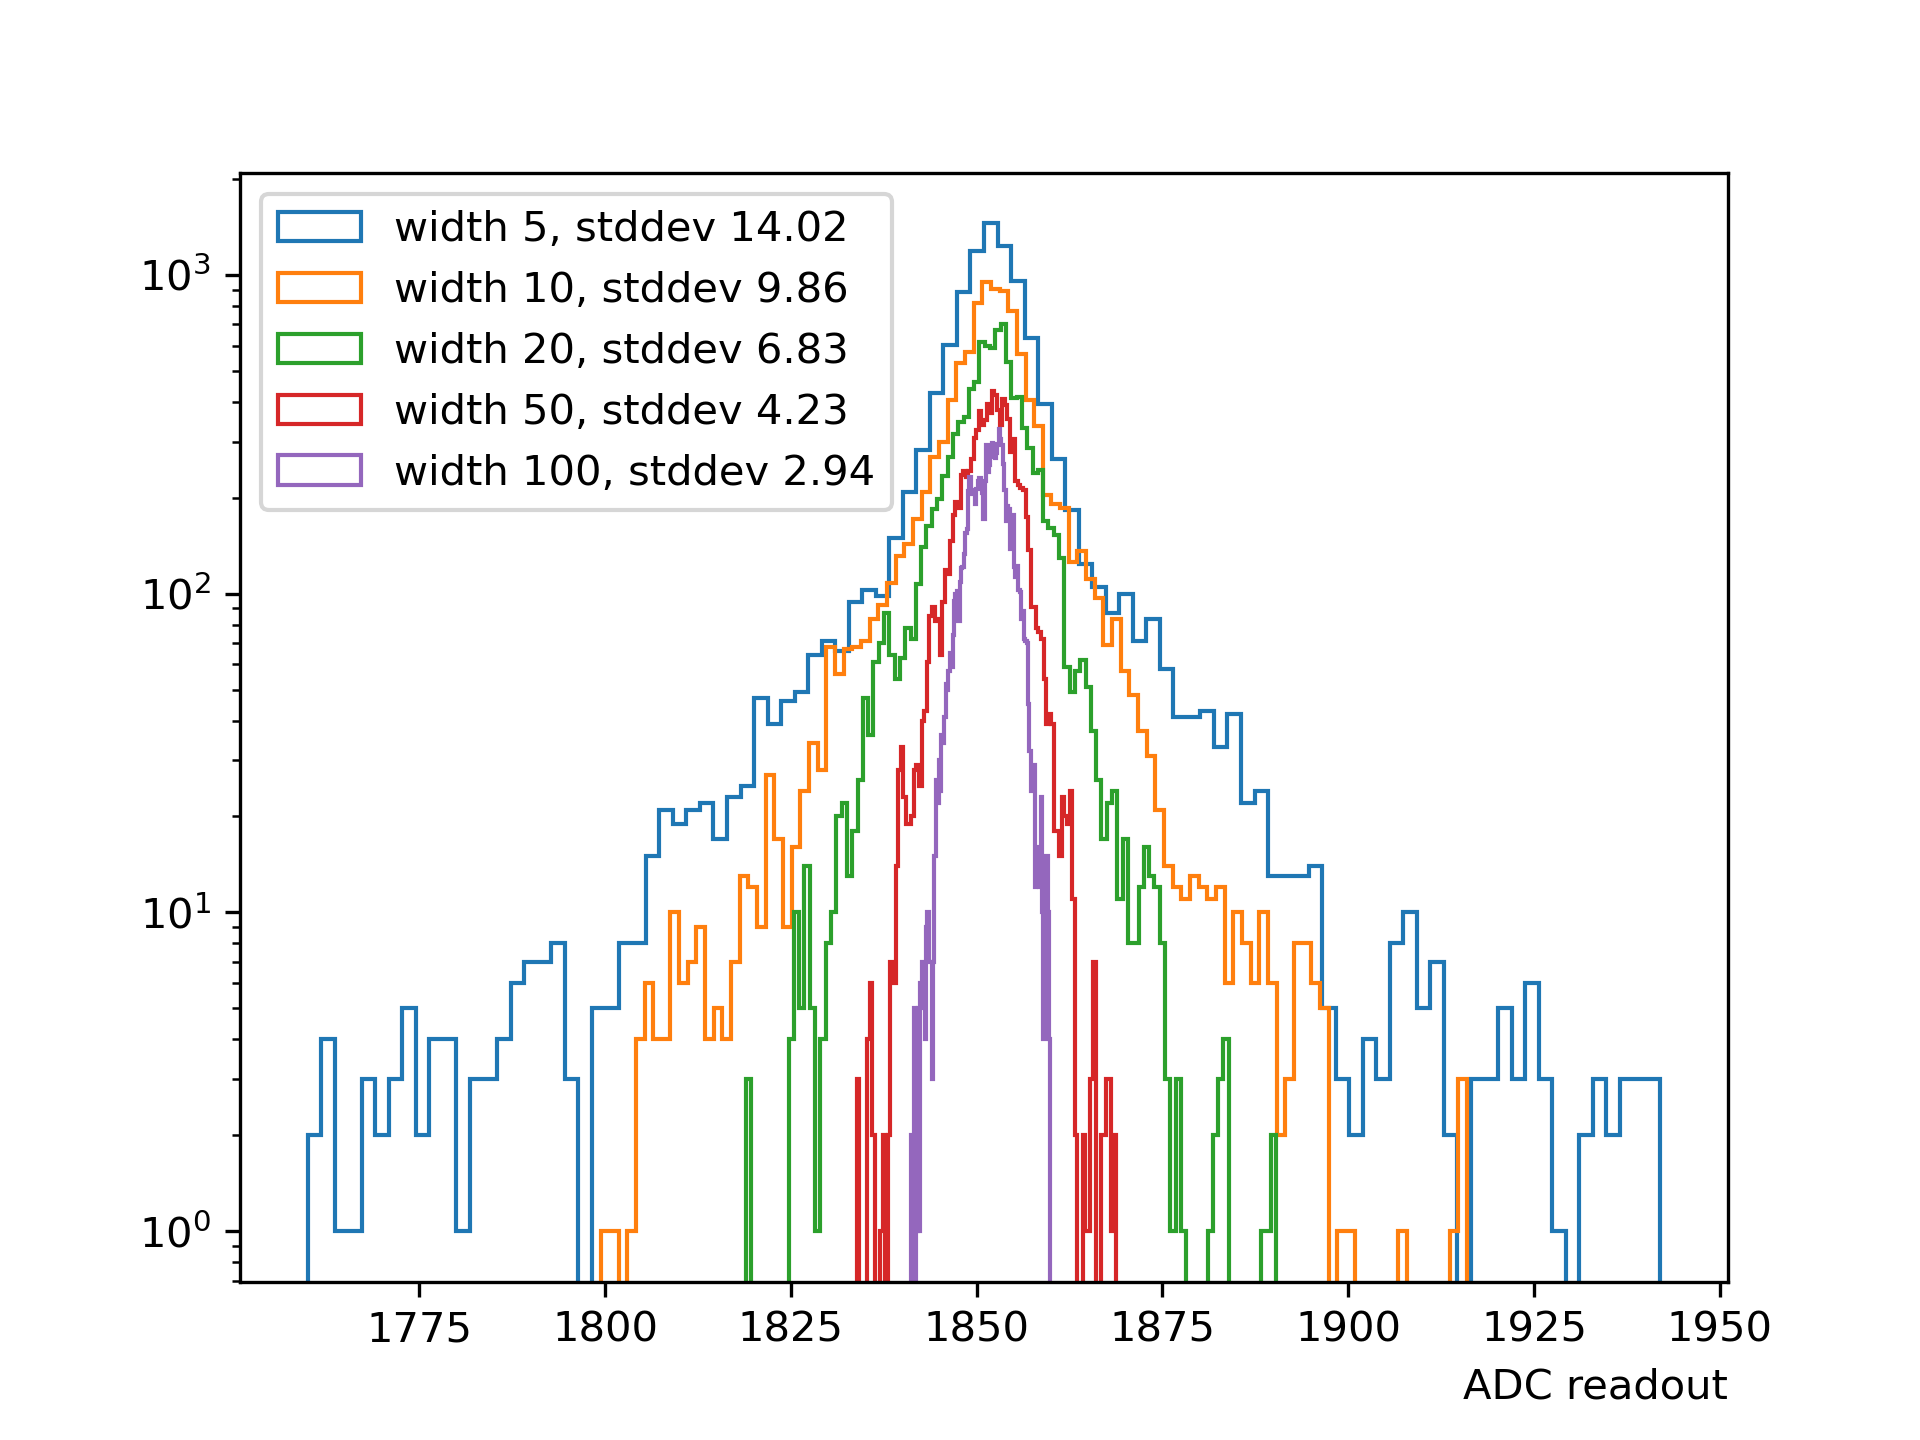
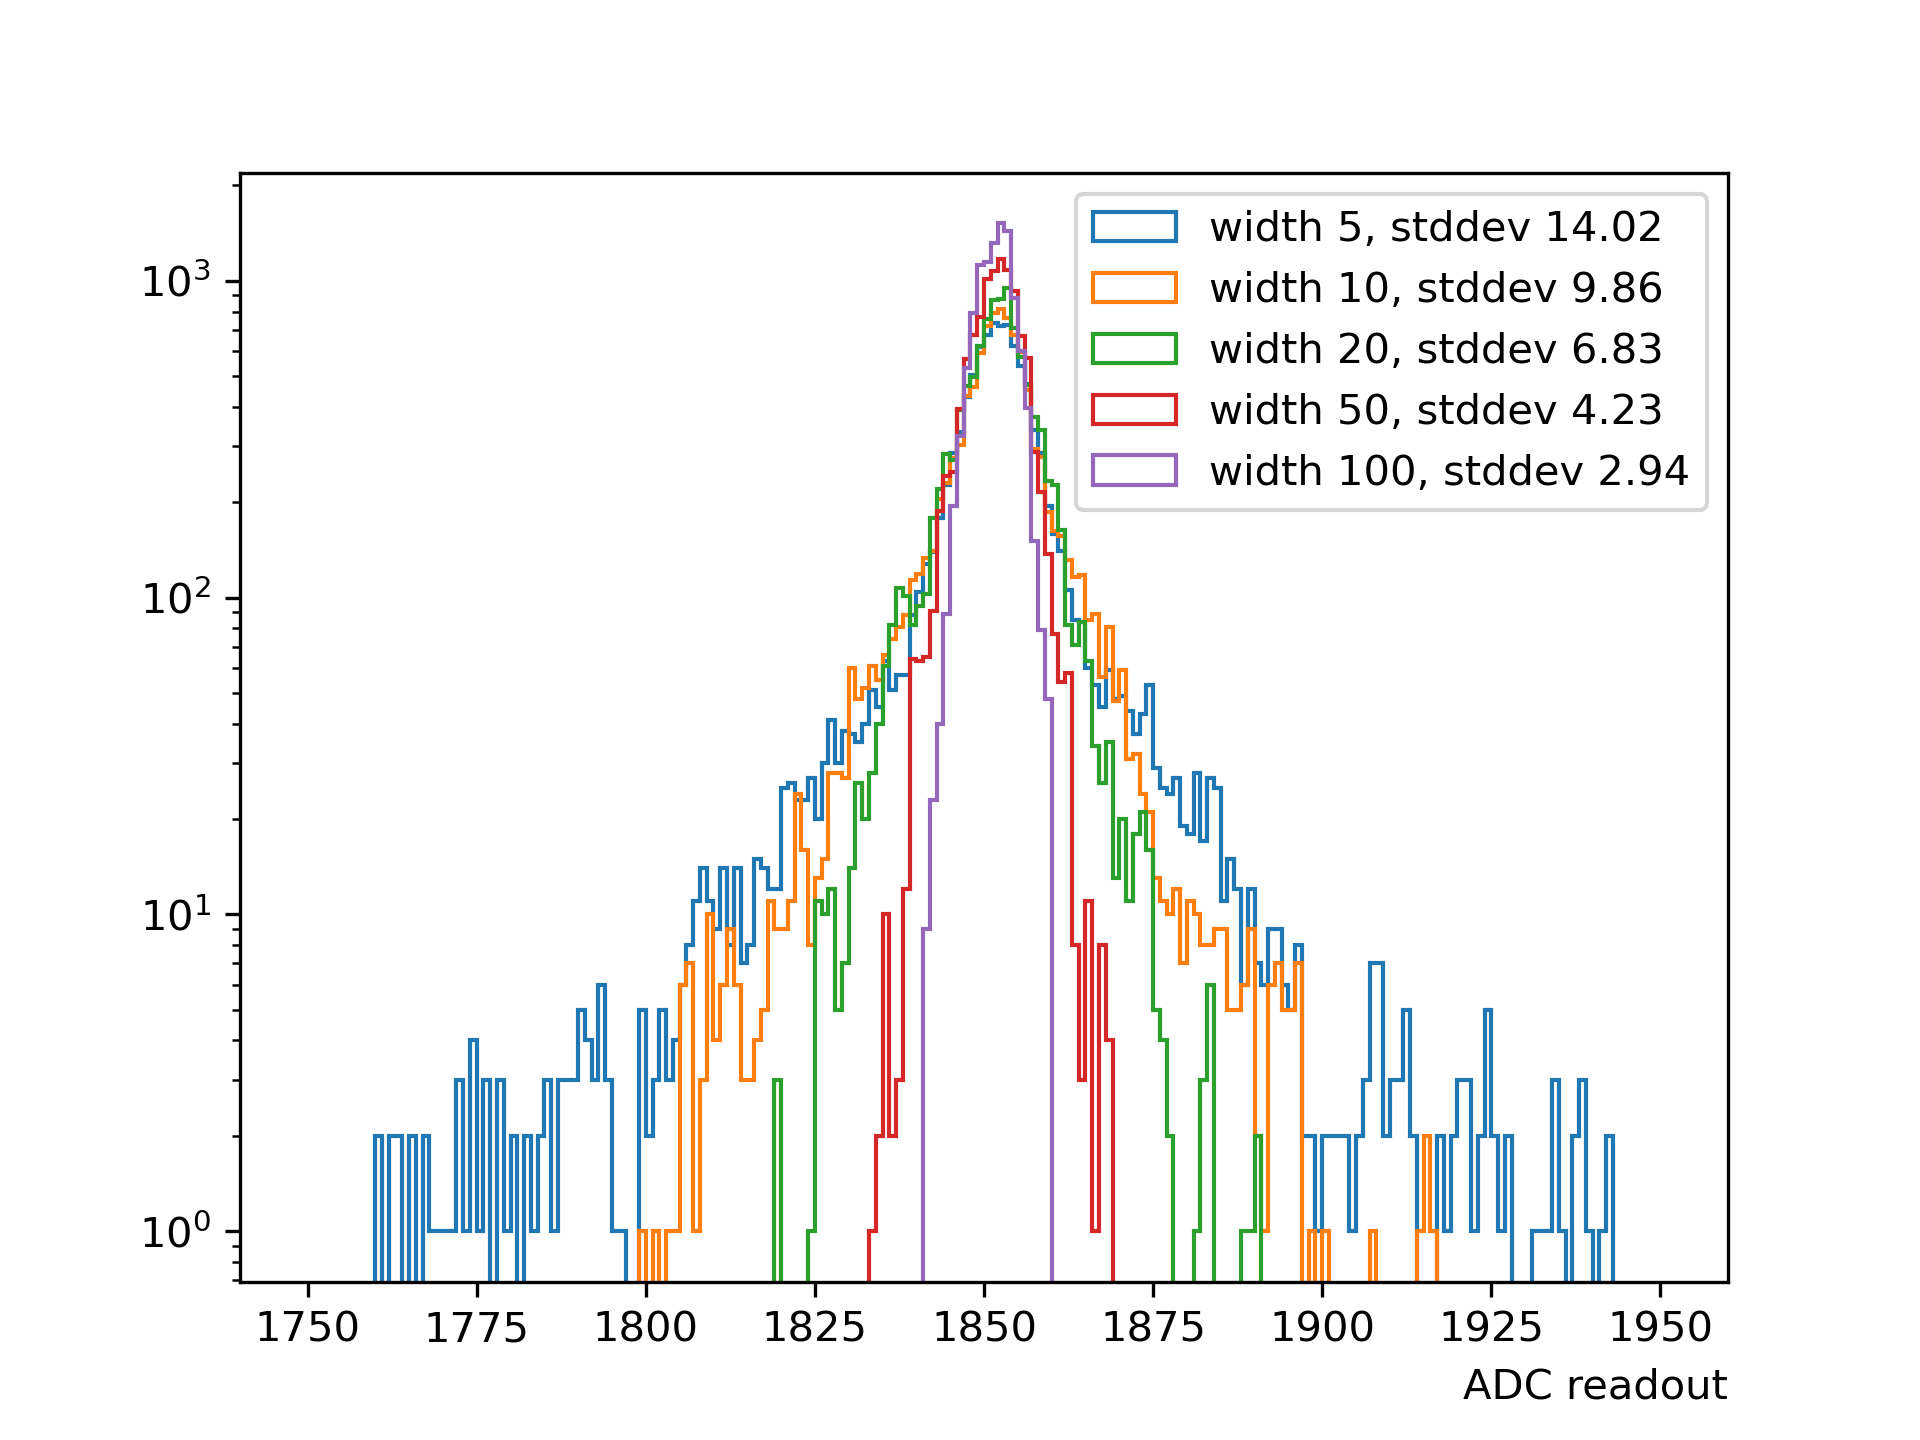
use equal binning for all samples

Changed region(s): [[0.0625, 0.125, 0.9375, 0.9375], [0.0625, 0.4062, 0.125, 0.4375], [0.0938, 0.625, 0.125, 0.6562]]

diff --git a/rolling_window.py b/rolling_window.py
@@ -1,5 +1,6 @@
 #!/usr/bin/env python3
 
+import numpy as np
 import pandas as pd
 import matplotlib.pyplot as plt
 
@@ -8,9 +9,11 @@ adc_readouts = df['ADC_READOUTS']
 
 fig, ax = plt.subplots(1, 1)
 
+bin_edges = np.linspace(1750, 1950, 201)
+
 for width in [5, 10, 20, 50, 100]:
     window = adc_readouts.rolling(width).mean()
-    ax.hist(window, bins=100, log=True,
+    ax.hist(window, bins=bin_edges, log=True,
             histtype='step', label=f'width {width}, stddev {window.std():.2f}')
 
 
